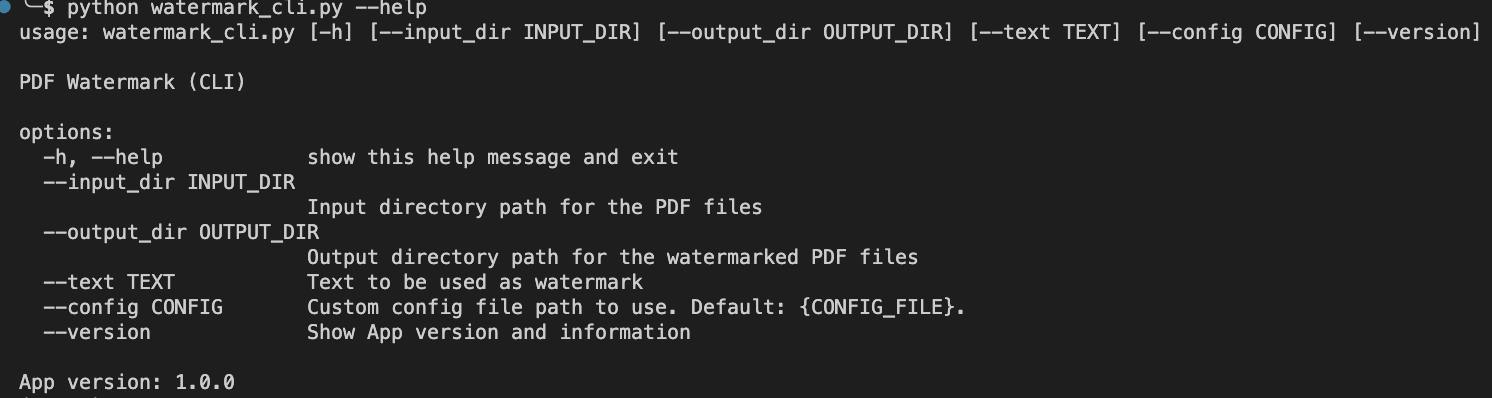
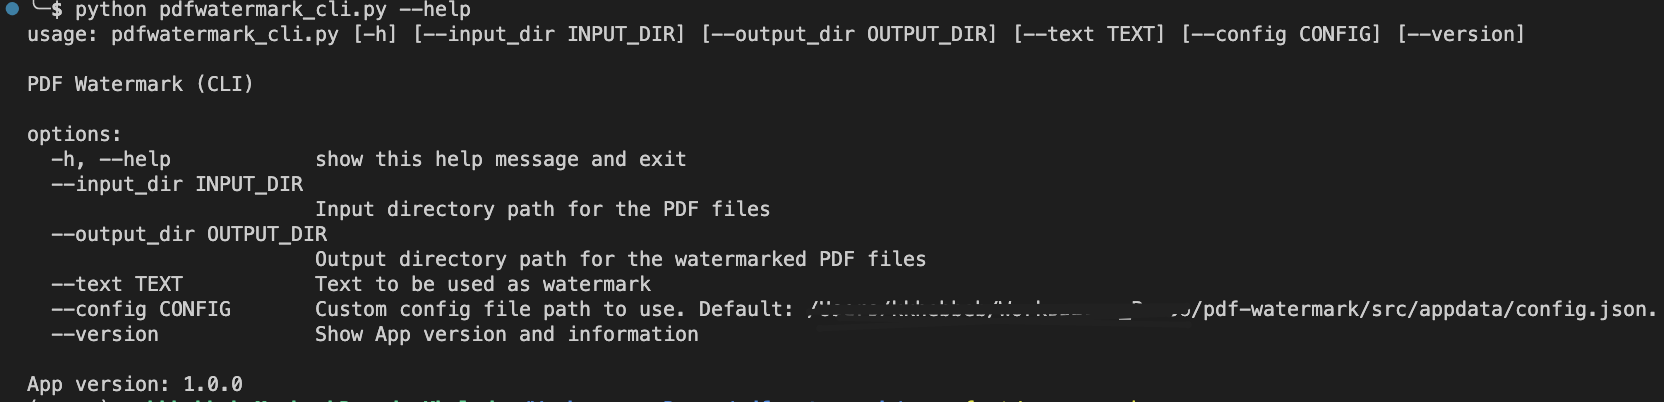
doc: updated documentation

diff --git a/README.md b/README.md
@@ -1,7 +1,7 @@
 
 <div align="center">
 <h1 align="center">
-<img src="src/appdata/watermark.ico" width="100" />
+<img src="src/appdata/pdfwatermark.ico" width="100" />
 <br>
 pdf-watermark
 </h1>
@@ -36,7 +36,7 @@ pdf-watermark
 
 ## 📍 Overview
 
-The PDF Watermark project is a Python application that offers both a command-line interface (CLI) and a graphical user interface (GUI) for adding watermarks to PDF files. The core functionality includes loading a configuration file, calculating the position and size of the watermark, and applying it to each page of the PDF. The project's purpose is to provide an easy and efficient way to apply watermarks, allowing users to protect their PDFs and add branding or copyright information. Its value proposition lies in its flexibility, as it supports custom configuration files and provides options for both CLI and GUI interactions.
+The "PdfWatermark" project is a Python-based toolkit that offers multiple solutions for adding watermarks to PDF files. It provides a command line interface (CLI) application, a graphical user interface (GUI) application, and a core module that can be integrated into other applications. The project's key functionalities include the ability to apply configurable watermarks to multiple PDF files, define watermark text, position, and color, and save/load watermark configurations and templates. Its purpose is to provide a flexible and user-friendly solution for adding watermarks to PDF files, offering convenience and customization options to users.
 
 ---
 
@@ -44,10 +44,10 @@ The PDF Watermark project is a Python application that offers both a command-lin
 
 Feature | Description |
 |---|---|
-| **🏗 Structure and Organization** | The codebase has a clear organization with separate files for the CLI and GUI versions, as well as a file for constants and variables. There is also a version file and a separate directory for storing input and output files. |
-| **📝 Code Documentation** | The codebase lacks comprehensive documentation, making it difficult for new developers to understand the functionality and usage of the application. |
+| **🏗 Structure and Organization** | The codebase follows a modular structure with separate files for different functionality such as CLI, GUI, watermarking logic, setup, and miscellaneous tasks. The `src` directory contains all the source code files, and the organization of files indicates clear separation of concerns. |
+| **📝 Code Documentation** | The codebase includes inline comments and docstrings that provide explanations and usage instructions, making it easier for developers to understand and maintain the code. |
 | **🧩 Dependency Management** | The codebase manages dependencies using external libraries such as PyPDF2, reportlab, and PyQt6, which are imported in the necessary files for PDF manipulation, watermark generation, and GUI development, respectively. The codebase uses the `requirements.txt` file to specify the required dependencies, and the `setup.py` file manages the installation of these dependencies using `pip`. This ensures consistent dependency management and ease of installation. |
-| **♻ Modularity and Reusability** | The codebase demonstrates modularity and reusability by separating the CLI and GUI versions into individual files, allowing these components to be used independently or together. |
+| **♻ Modularity and Reusability** | The codebase demonstrates modularity and reusability by separating different components into independent files, allowing for easy reuse of functions and classes across different parts of the application. |
 | **🔒 Security Measures** | There is no specific information available about security measures, so it's unclear if there are any specific measures implemented to protect user data or prevent vulnerabilities. |
 | **🔌 External Integrations** | The codebase integrates external libraries such as PyPDF2, reportlab, and PyQt6 for PDF manipulation, watermark generation, and GUI development, respectively. |
 | **📈 Scalability and Extensibility** | The codebase can be extended and scaled by adding new functionality or modifying existing code due to its modular design and separation of different components. |
@@ -66,19 +66,21 @@ repo
 ├── README.md
 ├── docs
 │   ├── cli.png
-│   └── gui.png
+│   ├── gui.png
+│   └── install.png
 ├── src
 │   ├── appdata
 │   │   ├── VERSION.txt
 │   │   ├── config.json
-│   │   ├── template.txt
-│   │   └── watermark.ico
+│   │   ├── pdfwatermark.ico
+│   │   └── template.txt
 │   ├── misc.py
+│   ├── pdfwatermark_cli.py
+│   ├── pdfwatermark_core.py
+│   ├── pdfwatermark_gui.py
 │   ├── requirements.txt
 │   ├── setup.py
-│   ├── setup.sh
-│   ├── watermark_cli.py
-│   └── watermark_gui.py
+│   └── setup.sh
 └── test
     ├── input
     │   └── pdf-test.pdf
@@ -94,7 +96,7 @@ repo
         ├── pdf-test_marked_top-right_8.pdf
         └── pdf-test_marked_top_8.pdf
 
-6 directories, 25 files
+6 directories, 27 files
 ```
 
 ---
@@ -105,18 +107,14 @@ repo
 
 <details closed><summary>Src</summary>
 
-| File             | Summary                                                                                                                                                                                                                                                                                                                                                                                                                                                    | Module               |
-|:-----------------|:-----------------------------------------------------------------------------------------------------------------------------------------------------------------------------------------------------------------------------------------------------------------------------------------------------------------------------------------------------------------------------------------------------------------------------------------------------------|:---------------------|
-| watermark_cli.py | This code snippet is a Python script that applies a watermark to PDF files. It uses the PyPDF2, reportlab, and json libraries to load a configuration file, calculate the position and size of the watermark, and add the watermark to each page of the input PDF files. The script can be run from the command line, accepting arguments for the input directory, output directory, and watermark text, and it also supports a custom configuration file. | src/watermark_cli.py |
-| setup.sh         | This code snippet performs a set of tasks to build a Python application:                                                                                                                                                                                                                                                                                                                                                                                   | src/setup.sh         |
-|                  |                                                                                                                                                                                                                                                                                                                                                                                                                                                            |                      |
-|                  | 1. It sets up a virtual environment using Python's `venv` module and activates it.                                                                                                                                                                                                                                                                                                                                                                         |                      |
-|                  | 2. It installs the required dependencies listed in the `requirements.txt` file using `pip`.                                                                                                                                                                                                                                                                                                                                                                |                      |
-|                  | 3. It deletes any previous build artifacts and runs the `setup.py` script to generate a macOS application package using `py2app`.                                                                                                                                                                                                                                                                                                                          |                      |
-|                  | 4. Finally, it deactivates the virtual environment and cleans it up, and displays a success message with the path to the built application.                                                                                                                                                                                                                                                                                                                |                      |
-| misc.py          | This code snippet defines various file paths and directory locations used in a PDF watermarking application. It also initializes default configuration values and provides information about the application's version and information for both the GUI and CLI versions. Additionally, it reads a template file to set default watermark text if the file exists.                                                                                         | src/misc.py          |
-| watermark_gui.py | The code snippet is a Python script that creates a graphical user interface (GUI) for a PDF watermarking application. It uses the PyQt6 library for building the GUI components. The GUI allows users to select input and output directories, enter text for the watermark, configure settings, and apply the watermark to PDF files. The script also handles error messages and provides information to the user.                                         | src/watermark_gui.py |
-| setup.py         | This code snippet sets up a Python application called "PdfWatermark" using the `setuptools` library. It defines the application's data, version, and build options. The application is built using `py2app` and includes data files and an icon. The setup configuration also includes information such as the application name, version, and copyright details.                                                                                           | src/setup.py         |
+| File                 | Summary                                                                                                                                                                                                                                                                                                                                                                                                                                                                                                                                                                                                                                            | Module                   |
+|:---------------------|:---------------------------------------------------------------------------------------------------------------------------------------------------------------------------------------------------------------------------------------------------------------------------------------------------------------------------------------------------------------------------------------------------------------------------------------------------------------------------------------------------------------------------------------------------------------------------------------------------------------------------------------------------|:-------------------------|
+| setup.sh             | This code snippet is a shell script that performs several tasks. It sets up a Python virtual environment, installs dependencies from a requirements.txt file, builds an application using a setup.py file, and then installs the built application onto the user's computer. The script provides a success message indicating the location of the installed application.                                                                                                                                                                                                                                                                           | src/setup.sh             |
+| misc.py              | This code snippet defines various constants and variables related to a PDF watermarking application. It determines the current directory, sets default input and output directories, and specifies file paths for version information, configuration, and template files. It also sets GUI-related variables such as icon path, font style, and font size. Additionally, it initializes default values for watermark configuration and template text. Finally, it reads the version file and generates information strings for the application.                                                                                                    | src/misc.py              |
+| pdfwatermark_core.py | The provided code snippet is a Python script that adds a watermark to PDF files. It uses the PyPDF2 library to read and merge PDF pages, the reportlab library to generate a PDF canvas for the watermark, and the json library to load and update configuration settings. The WatermarkConfig class handles the loading and updating of the watermark configuration, while the WatermarkApp class contains methods to calculate the position of the watermark, add the watermark to PDF files, and apply the watermark to all PDF files in a given directory. The script can be executed to apply a configurable watermark to multiple PDF files. | src/pdfwatermark_core.py |
+| pdfwatermark_cli.py  | The provided code snippet is a standalone CLI (Command Line Interface) application that offers the functionality of adding a watermark to PDF files. It takes input parameters such as input directory, output directory, and watermark text from the command line. The application uses a custom configuration file and the pyfiglet library to display the application's name, version, and information. It validates the input parameters, checks for the presence of PDF files in the input directory, and applies the watermark to all PDF files found. If any errors occur, it displays an appropriate error message.                        | src/pdfwatermark_cli.py  |
+| setup.py             | The provided code snippet is a setup script for packaging and distributing a Python application called "PdfWatermark". It uses setuptools to define the application's name, version, and other metadata. It also specifies the app's main file, data files, and build options such as an icon and plist properties. Finally, it uses py2app to build the macOS application.                                                                                                                                                                                                                                                                        | src/setup.py             |
+| pdfwatermark_gui.py  | The provided code snippet is a GUI application that allows users to apply watermarks to PDF files. The application provides options to choose input and output directories, enter the watermark text, set the watermark position and color, and save/load watermark configurations and templates. It utilizes the PyQt6 library for creating the graphical interface and the pdfwatermark_cli module for performing the watermarking operations.                                                                                                                                                                                                   | src/pdfwatermark_gui.py  |
 
 </details>
 
@@ -159,14 +157,21 @@ You can save your custom text as template for your your watermarks
     - You can save your template wihin the `src/template.txt` file
 
 ### Using the CLI Interface
-- Run the following commands :
+- Show help :
     ```
     cd pdf-watermark/src
     python watermark_cli.py --help
     ```
+    <img src="docs/cli.png" alt="CLI" width="750px"/>
+
+- Show version :
+    ```
+    cd pdf-watermark/src
+    python watermark_cli.py --version
+    ```
+    <img src="docs/cli2.png" alt="CLI" width="350px"/>
 - Enjoy !
 
-<img src="docs/cli.png" alt="CLI" width="650px"/>
 
 
 ### Using the GUI Interface
@@ -186,14 +191,14 @@ You can save your custom text as template for your your watermarks
     cd pdf-watermark/src
     sh setup.sh
     ```
-- Then, using the finder, go under `pdf-watermark/src/dist/` folder. 
-- `Double-click` or `Drag&drop` the Application directly to your Dock.
+- The App distribution will be built under `pdf-watermark/src/dist/` folder. 
+- The App will be installed to your User Applications folder (`HOME/Applications/PdfWatermark`), meaning that it will appear in your Dock
 
-    <img src="docs/install.png" alt="CLI" width="450px"/>
+    <img src="docs/install.png" alt="INSTALL" width="350px"/>
 
 - Run the application
 
-    <img src="docs/gui.png" alt="CLI" width="450px"/>
+    <img src="docs/gui.png" alt="GUI" width="450px"/>
 
 - Enjoy !
 ---
